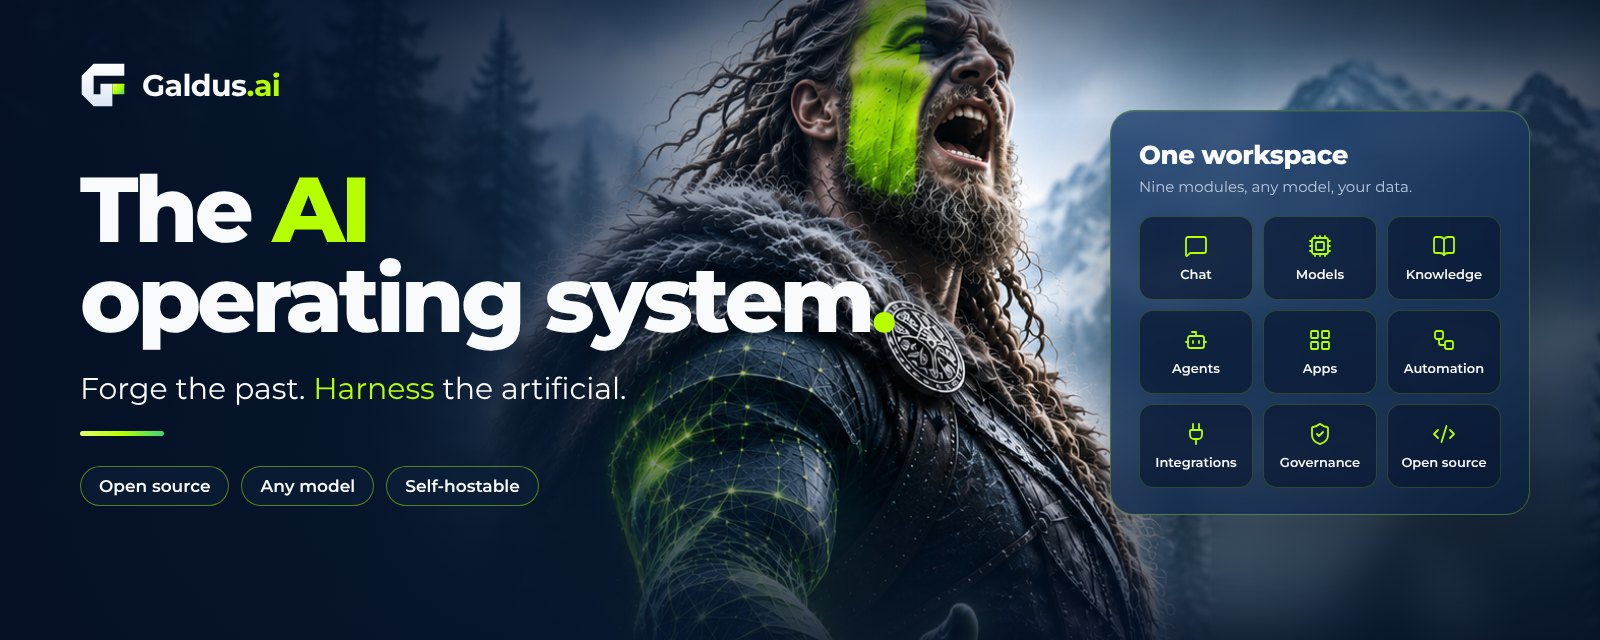
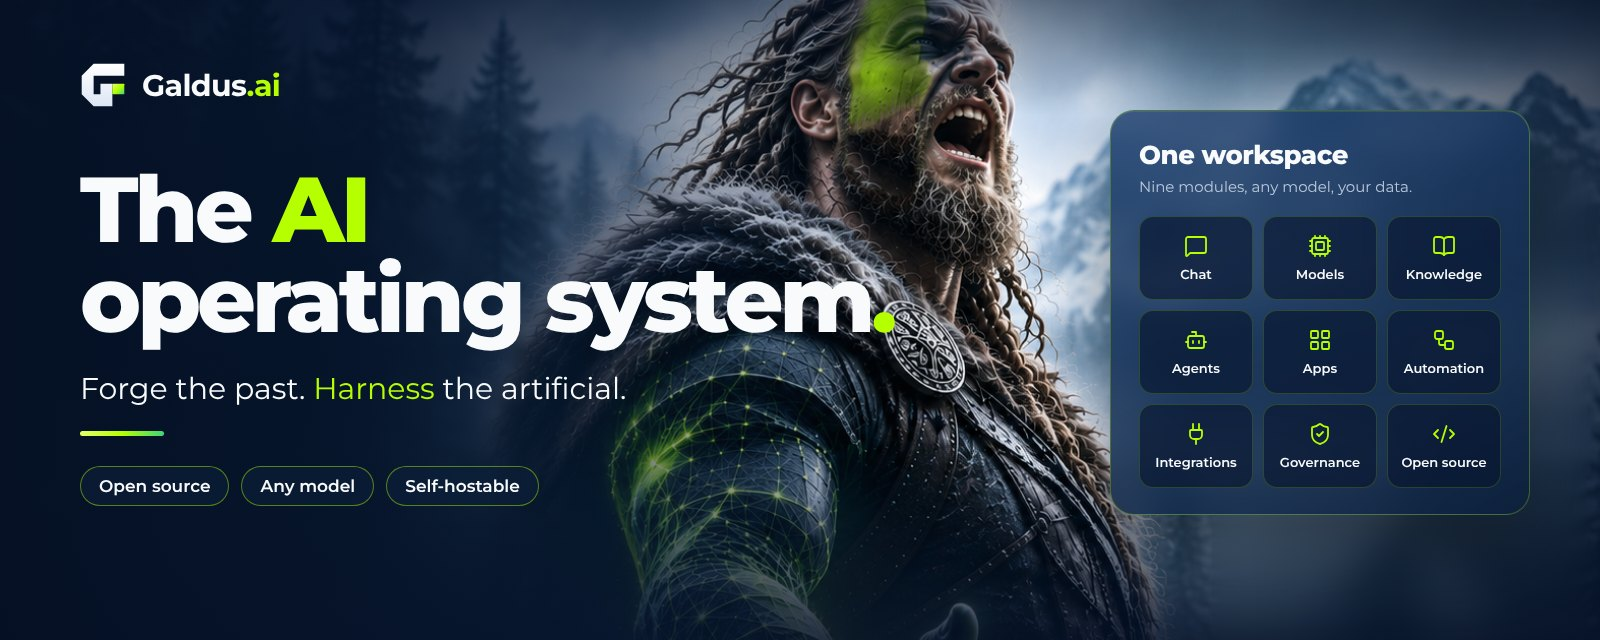
fix(web): face paint stops on the cheekbone, natural pigment look
The stripe now ends with a dry-brush taper above the beard line; the beard is restored without any green. Paint mask and repository brand images regenerated.

Claude-Session: https://claude.ai/code/session_015o78ktM6V7jTsd6rChiXeL

Changed region(s): [[0.5312, 0.0, 0.5938, 0.3125]]

diff --git a/apps/web/src/style.css b/apps/web/src/style.css
@@ -412,7 +412,7 @@ kbd { font: 600 11px var(--font); border: 1px solid var(--night-line-strong); bo
 .arm-glow { position: absolute; inset: 0; mix-blend-mode: screen; background: radial-gradient(14% 18% at 55% 75%, rgba(182, 255, 0, .42), transparent 70%); animation: armPulse 3.2s ease-in-out infinite; }
 .arm-sweep { position: absolute; inset: 0; mix-blend-mode: screen; background: linear-gradient(125deg, transparent 44%, rgba(228, 255, 107, .6) 50%, transparent 56%); background-size: 300% 300%; animation: armSweep 3.8s cubic-bezier(.6, 0, .4, 1) infinite; }
 /* Face paint: effects live inside the exact shape of the paint (alpha mask), so they move with the skin. */
-.paint { position: absolute; left: 53.29%; top: 3.93%; width: 5.32%; height: 23.91%;
+.paint { position: absolute; left: 53.41%; top: 3.93%; width: 5.20%; height: 17.53%;
   -webkit-mask: var(--pm) center / 100% 100% no-repeat; mask: var(--pm) center / 100% 100% no-repeat; }
 .paint i { position: absolute; inset: 0; }
 /* a wet sheen that travels down the stroke, following the face from brow to cheek */
